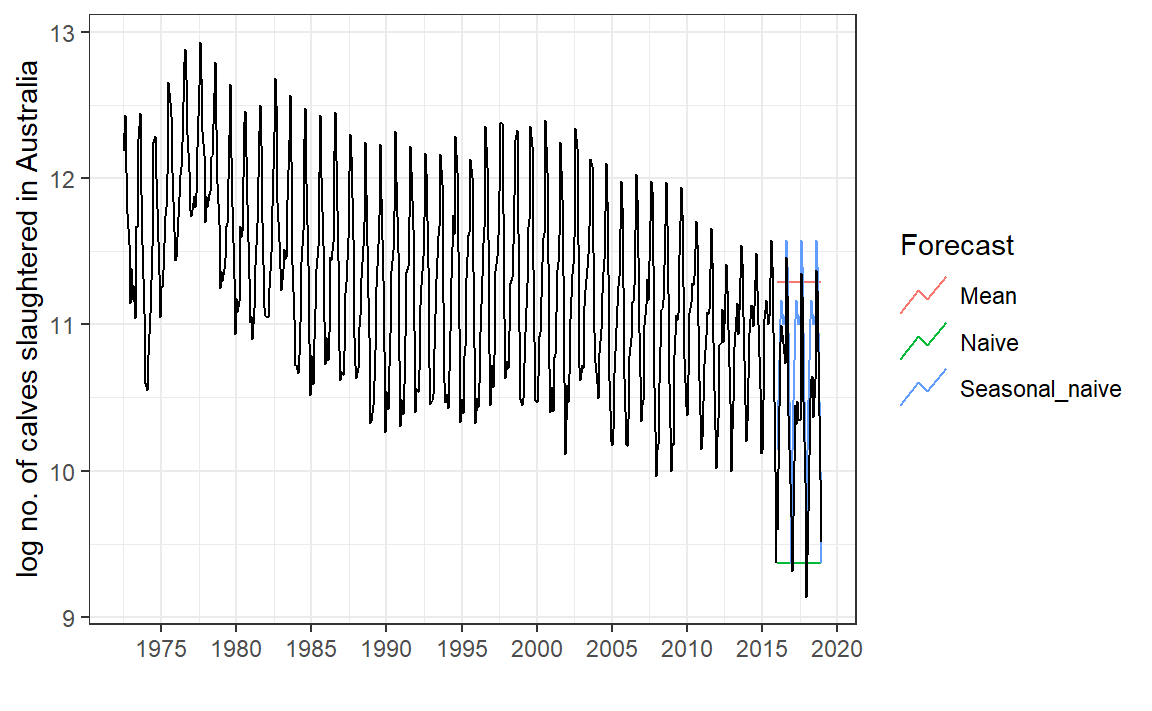
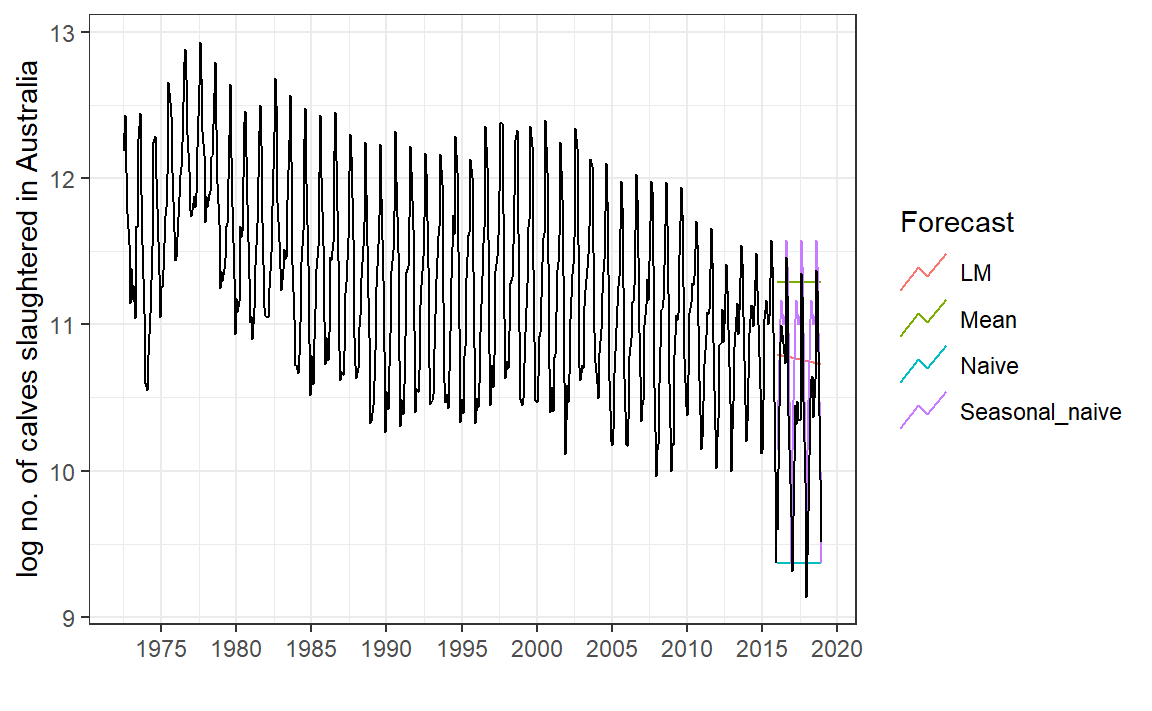
Now finishes TSA intro

Changed region(s): [[0.7812, 0.2785, 0.9688, 0.5879], [0.6875, 0.4332, 0.7188, 0.6188], [0.6875, 0.3404, 0.7188, 0.4023]]

diff --git a/u5_d01-timeseries/u5_d01-timeseries.html b/u5_d01-timeseries/u5_d01-timeseries.html
@@ -402,7 +402,7 @@
 <h3 id="giora-simchoni">Giora Simchoni</h3>
 <h4 id="gsimchonigmail.com-and-add-dsapps-in-subject"><code>gsimchoni@gmail.com</code> and add <code>#dsapps</code> in subject</h4>
 <h3 id="stat.-and-or-department-tau">Stat. and OR Department, TAU</h3>
-<h3 id="section-1">2023-04-06</h3>
+<h3 id="section-1">2023-04-07</h3>
 </section>
 <section class="slide level2">
 
@@ -459,11 +459,11 @@
 
 <h3 id="tsa-goals">TSA Goals</h3>
 <ul>
-<li>Forecasting <span style="font-size:16px">(prediction)</span></li>
-<li>Describing the TS dynamics</li>
-<li>Determination of input features contribution</li>
+<li>Forecasting <span style="font-size:18px">(prediction)</span></li>
+<li>Monitoring: outlier detection, alert systems</li>
+<li>Describing: the TS dynamics, input features contribution</li>
 <li>Planning: control schemes, intervention analyses, sensitivity analyses</li>
-<li>Multivariate TS: interrelationships, clustering</li>
+<li>Clustering: with multivariate TS</li>
 </ul>
 </section>
 <section id="detour-dates-in-r" class="slide level2 title-slide center">
@@ -520,7 +520,7 @@
 <span id="cb14-2"><a href="#cb14-2" aria-hidden="true" tabindex="-1"></a></span>
 <span id="cb14-3"><a href="#cb14-3" aria-hidden="true" tabindex="-1"></a>now</span></code><button title="Copy to Clipboard" class="code-copy-button"><i class="bi"></i></button></pre></div>
 <div class="cell-output cell-output-stdout">
-<pre><code>[1] "2023-04-06 21:37:49 IDT"</code></pre>
+<pre><code>[1] "2023-04-07 08:15:44 IDT"</code></pre>
 </div>
 <div class="sourceCode cell-code" id="cb16"><pre class="sourceCode r code-with-copy"><code class="sourceCode r"><span id="cb16-1"><a href="#cb16-1" aria-hidden="true" tabindex="-1"></a><span class="fu">class</span>(now)</span></code><button title="Copy to Clipboard" class="code-copy-button"><i class="bi"></i></button></pre></div>
 <div class="cell-output cell-output-stdout">
@@ -528,7 +528,7 @@
 </div>
 <div class="sourceCode cell-code" id="cb18"><pre class="sourceCode r code-with-copy"><code class="sourceCode r"><span id="cb18-1"><a href="#cb18-1" aria-hidden="true" tabindex="-1"></a><span class="fu">as.numeric</span>(now)</span></code><button title="Copy to Clipboard" class="code-copy-button"><i class="bi"></i></button></pre></div>
 <div class="cell-output cell-output-stdout">
-<pre><code>[1] 1680806270</code></pre>
+<pre><code>[1] 1680844544</code></pre>
 </div>
 </div>
 <p>The <code>POSIXlt</code> class will store time in a list with useful elements:</p>
@@ -536,7 +536,7 @@
 <div class="sourceCode cell-code" id="cb20"><pre class="sourceCode r code-with-copy"><code class="sourceCode r"><span id="cb20-1"><a href="#cb20-1" aria-hidden="true" tabindex="-1"></a>now <span class="ot">&lt;-</span> <span class="fu">as.POSIXlt</span>(now, <span class="at">tz =</span> <span class="st">"GMT"</span>)</span>
 <span id="cb20-2"><a href="#cb20-2" aria-hidden="true" tabindex="-1"></a>now<span class="sc">$</span>hour</span></code><button title="Copy to Clipboard" class="code-copy-button"><i class="bi"></i></button></pre></div>
 <div class="cell-output cell-output-stdout">
-<pre><code>[1] 18</code></pre>
+<pre><code>[1] 5</code></pre>
 </div>
 </div>
 </section>
@@ -547,7 +547,7 @@
 <div class="cell" data-fig.asp="0.618">
 <div class="sourceCode cell-code" id="cb22"><pre class="sourceCode r code-with-copy"><code class="sourceCode r"><span id="cb22-1"><a href="#cb22-1" aria-hidden="true" tabindex="-1"></a><span class="fu">today</span>()</span></code><button title="Copy to Clipboard" class="code-copy-button"><i class="bi"></i></button></pre></div>
 <div class="cell-output cell-output-stdout">
-<pre><code>[1] "2023-04-06"</code></pre>
+<pre><code>[1] "2023-04-07"</code></pre>
 </div>
 <div class="sourceCode cell-code" id="cb24"><pre class="sourceCode r code-with-copy"><code class="sourceCode r"><span id="cb24-1"><a href="#cb24-1" aria-hidden="true" tabindex="-1"></a><span class="fu">ymd</span>(<span class="st">"2023-01-31"</span>)</span></code><button title="Copy to Clipboard" class="code-copy-button"><i class="bi"></i></button></pre></div>
 <div class="cell-output cell-output-stdout">
@@ -573,7 +573,7 @@
 <div class="cell" data-fig.asp="0.618">
 <div class="sourceCode cell-code" id="cb32"><pre class="sourceCode r code-with-copy"><code class="sourceCode r"><span id="cb32-1"><a href="#cb32-1" aria-hidden="true" tabindex="-1"></a><span class="fu">as_datetime</span>(<span class="fu">today</span>())</span></code><button title="Copy to Clipboard" class="code-copy-button"><i class="bi"></i></button></pre></div>
 <div class="cell-output cell-output-stdout">
-<pre><code>[1] "2023-04-06 UTC"</code></pre>
+<pre><code>[1] "2023-04-07 UTC"</code></pre>
 </div>
 </div>
 </section>
@@ -604,19 +604,19 @@
 <div class="cell" data-fig.asp="0.618">
 <div class="sourceCode cell-code" id="cb42"><pre class="sourceCode r code-with-copy"><code class="sourceCode r"><span id="cb42-1"><a href="#cb42-1" aria-hidden="true" tabindex="-1"></a><span class="fu">today</span>() <span class="sc">-</span> <span class="fu">ymd</span>(<span class="st">"2020-01-01"</span>) <span class="co">#base R difftime object</span></span></code><button title="Copy to Clipboard" class="code-copy-button"><i class="bi"></i></button></pre></div>
 <div class="cell-output cell-output-stdout">
-<pre><code>Time difference of 1191 days</code></pre>
+<pre><code>Time difference of 1192 days</code></pre>
 </div>
 <div class="sourceCode cell-code" id="cb44"><pre class="sourceCode r code-with-copy"><code class="sourceCode r"><span id="cb44-1"><a href="#cb44-1" aria-hidden="true" tabindex="-1"></a><span class="fu">as.duration</span>(<span class="fu">today</span>() <span class="sc">-</span> <span class="fu">ymd</span>(<span class="st">"2020-01-01"</span>))</span></code><button title="Copy to Clipboard" class="code-copy-button"><i class="bi"></i></button></pre></div>
 <div class="cell-output cell-output-stdout">
-<pre><code>[1] "102902400s (~3.26 years)"</code></pre>
+<pre><code>[1] "102988800s (~3.26 years)"</code></pre>
 </div>
 <div class="sourceCode cell-code" id="cb46"><pre class="sourceCode r code-with-copy"><code class="sourceCode r"><span id="cb46-1"><a href="#cb46-1" aria-hidden="true" tabindex="-1"></a><span class="fu">today</span>() <span class="sc">-</span> <span class="fu">dyears</span>(<span class="dv">1</span>)</span></code><button title="Copy to Clipboard" class="code-copy-button"><i class="bi"></i></button></pre></div>
 <div class="cell-output cell-output-stdout">
-<pre><code>[1] "2022-04-05 18:00:00 UTC"</code></pre>
+<pre><code>[1] "2022-04-06 18:00:00 UTC"</code></pre>
 </div>
 <div class="sourceCode cell-code" id="cb48"><pre class="sourceCode r code-with-copy"><code class="sourceCode r"><span id="cb48-1"><a href="#cb48-1" aria-hidden="true" tabindex="-1"></a><span class="fu">today</span>() <span class="sc">+</span> <span class="fu">ddays</span>(<span class="dv">10</span>)</span></code><button title="Copy to Clipboard" class="code-copy-button"><i class="bi"></i></button></pre></div>
 <div class="cell-output cell-output-stdout">
-<pre><code>[1] "2023-04-16"</code></pre>
+<pre><code>[1] "2023-04-17"</code></pre>
 </div>
 </div>
 </section>
@@ -649,18 +649,18 @@
 <span id="cb50-6"><a href="#cb50-6" aria-hidden="true" tabindex="-1"></a>)</span></code><button title="Copy to Clipboard" class="code-copy-button"><i class="bi"></i></button></pre></div>
 <div class="cell-output cell-output-stdout">
 <pre><code># A tsibble: 10 x 2 [1D]
-   date          value
-   &lt;date&gt;        &lt;dbl&gt;
- 1 2017-01-01 -0.695  
- 2 2017-01-02  1.58   
- 3 2017-01-03  2.05   
- 4 2017-01-04  0.126  
- 5 2017-01-05  1.72   
- 6 2017-01-06  2.66   
- 7 2017-01-07  1.11   
- 8 2017-01-08 -0.00320
- 9 2017-01-09 -0.671  
-10 2017-01-10  1.85   </code></pre>
+   date        value
+   &lt;date&gt;      &lt;dbl&gt;
+ 1 2017-01-01 -0.821
+ 2 2017-01-02  0.838
+ 3 2017-01-03  0.796
+ 4 2017-01-04 -0.319
+ 5 2017-01-05 -1.58 
+ 6 2017-01-06 -0.818
+ 7 2017-01-07  0.500
+ 8 2017-01-08  1.24 
+ 9 2017-01-09 -0.199
+10 2017-01-10  1.18 </code></pre>
 </div>
 </div>
 <p>Here, as <code>date</code> is the only <strong><code>Date</code></strong> column, <code>tsibble</code> gets this.</p>
@@ -679,18 +679,18 @@
 <div class="cell-output cell-output-stdout">
 <pre><code># A tsibble: 30 x 3 [1Q]
 # Key:       group [3]
-       qtr group   value
-     &lt;qtr&gt; &lt;chr&gt;   &lt;dbl&gt;
- 1 2010 Q1 x      0.148 
- 2 2010 Q2 x      0.920 
- 3 2010 Q3 x      0.941 
- 4 2010 Q4 x      1.17  
- 5 2011 Q1 x      0.983 
- 6 2011 Q2 x      0.824 
- 7 2011 Q3 x      0.0897
- 8 2011 Q4 x     -1.16  
- 9 2012 Q1 x      0.754 
-10 2012 Q2 x     -3.02  
+       qtr group  value
+     &lt;qtr&gt; &lt;chr&gt;  &lt;dbl&gt;
+ 1 2010 Q1 x      1.08 
+ 2 2010 Q2 x     -0.588
+ 3 2010 Q3 x     -0.409
+ 4 2010 Q4 x     -1.71 
+ 5 2011 Q1 x     -0.563
+ 6 2011 Q2 x      1.09 
+ 7 2011 Q3 x     -1.73 
+ 8 2011 Q4 x     -0.662
+ 9 2012 Q1 x     -0.182
+10 2012 Q2 x     -0.585
 # … with 20 more rows</code></pre>
 </div>
 </div>
@@ -1121,9 +1121,12 @@ r_k = \frac{\sum_{t = k+1}^{n}(Y_t - \bar{Y})(Y_{t-k} - \bar{Y})}{\sum_{t = 1}^{
 </div>
 </div>
 </section>
+<section id="residuals" class="slide level2 title-slide center">
+<h2>Residuals</h2>
+</section>
 <section class="slide level2">
 
-<h3 id="residuals">Residuals</h3>
+<h3 id="residuals-1">Residuals</h3>
 <p>What do we like to see in residuals?</p>
 <ol type="1">
 <li>Uncorrelated</li>
@@ -1273,6 +1276,71 @@ r_k = \frac{\sum_{t = k+1}^{n}(Y_t - \bar{Y})(Y_{t-k} - \bar{Y})}{\sum_{t = 1}^{
 
 </div>
 <img data-src="u5_d01-timeseries_files/figure-revealjs/Calves-resid6-1.png" width="576" class="r-stretch"></section>
+<section class="slide level2">
+
+<h4 id="residuals-statistical-tests">Residuals Statistical Tests</h4>
+<p>Normality - Shapiro-Wilk Test:</p>
+<div class="cell" data-fig.asp="0.618">
+<div class="sourceCode cell-code" id="cb89"><pre class="sourceCode r code-with-copy"><code class="sourceCode r"><span id="cb89-1"><a href="#cb89-1" aria-hidden="true" tabindex="-1"></a><span class="fu">shapiro.test</span>(aus_calves_aug<span class="sc">$</span>st_resid)</span></code><button title="Copy to Clipboard" class="code-copy-button"><i class="bi"></i></button></pre></div>
+<div class="cell-output cell-output-stdout">
+<pre><code>
+    Shapiro-Wilk normality test
+
+data:  aus_calves_aug$st_resid
+W = 0.99429, p-value = 0.03469</code></pre>
+</div>
+</div>
+<p>TS independence - Runs Test:</p>
+<div class="cell" data-fig.asp="0.618">
+<div class="sourceCode cell-code" id="cb91"><pre class="sourceCode r code-with-copy"><code class="sourceCode r"><span id="cb91-1"><a href="#cb91-1" aria-hidden="true" tabindex="-1"></a>TSA<span class="sc">::</span><span class="fu">runs</span>(aus_calves_aug<span class="sc">$</span>st_resid)</span></code><button title="Copy to Clipboard" class="code-copy-button"><i class="bi"></i></button></pre></div>
+<div class="cell-output cell-output-stdout">
+<pre><code>$pvalue
+[1] 0.223
+
+$observed.runs
+[1] 265
+
+$expected.runs
+[1] 279.871
+
+$n1
+[1] 273
+
+$n2
+[1] 285
+
+$k
+[1] 0</code></pre>
+</div>
+</div>
+</section>
+<section class="slide level2">
+
+<p>ACF - Ljung-Box Test:</p>
+<p><span class="math display">\[
+Q^* = n(n+2)\sum_{k = 1}^l (n - k)^{-1}r^2_k \sim \chi^2_l
+\]</span></p>
+<div class="cell" data-fig.asp="0.618">
+<div class="sourceCode cell-code" id="cb93"><pre class="sourceCode r code-with-copy"><code class="sourceCode r"><span id="cb93-1"><a href="#cb93-1" aria-hidden="true" tabindex="-1"></a><span class="fu">Box.test</span>(aus_calves_aug<span class="sc">$</span>st_resid, <span class="at">lag =</span> <span class="dv">10</span>, <span class="at">type =</span> <span class="st">"Ljung"</span>)</span></code><button title="Copy to Clipboard" class="code-copy-button"><i class="bi"></i></button></pre></div>
+<div class="cell-output cell-output-stdout">
+<pre><code>
+    Box-Ljung test
+
+data:  aus_calves_aug$st_resid
+X-squared = 149.71, df = 10, p-value &lt; 2.2e-16</code></pre>
+</div>
+</div>
+<p>A bit more tidy with <code>fable</code>:</p>
+<div class="cell" data-fig.asp="0.618">
+<div class="sourceCode cell-code" id="cb95"><pre class="sourceCode r code-with-copy"><code class="sourceCode r"><span id="cb95-1"><a href="#cb95-1" aria-hidden="true" tabindex="-1"></a>aus_calves_aug <span class="sc">|&gt;</span> <span class="fu">features</span>(.innov, ljung_box, <span class="at">lag =</span> <span class="dv">10</span>)</span></code><button title="Copy to Clipboard" class="code-copy-button"><i class="bi"></i></button></pre></div>
+<div class="cell-output cell-output-stdout">
+<pre><code># A tibble: 1 × 3
+  .model         lb_stat lb_pvalue
+  &lt;chr&gt;            &lt;dbl&gt;     &lt;dbl&gt;
+1 STL(log_count)    150.         0</code></pre>
+</div>
+</div>
+</section>
 <section id="baseline-forecasts" class="slide level2 title-slide center">
 <h2>Baseline Forecasts</h2>
 </section>
@@ -1294,43 +1362,66 @@ r_k = \frac{\sum_{t = k+1}^{n}(Y_t - \bar{Y})(Y_{t-k} - \bar{Y})}{\sum_{t = 1}^{
 <section class="slide level2">
 
 <div class="cell" data-fig.asp="0.618">
-<div class="sourceCode cell-code" id="cb89"><pre class="sourceCode r code-with-copy"><code class="sourceCode r"><span id="cb89-1"><a href="#cb89-1" aria-hidden="true" tabindex="-1"></a><span class="co"># Set training data until 2016</span></span>
-<span id="cb89-2"><a href="#cb89-2" aria-hidden="true" tabindex="-1"></a>train <span class="ot">&lt;-</span> aus_calves <span class="sc">|&gt;</span></span>
-<span id="cb89-3"><a href="#cb89-3" aria-hidden="true" tabindex="-1"></a>  <span class="fu">filter</span>(<span class="fu">year</span>(Month) <span class="sc">&lt;</span> <span class="dv">2016</span>)</span>
-<span id="cb89-4"><a href="#cb89-4" aria-hidden="true" tabindex="-1"></a></span>
-<span id="cb89-5"><a href="#cb89-5" aria-hidden="true" tabindex="-1"></a><span class="co"># Fit the models</span></span>
-<span id="cb89-6"><a href="#cb89-6" aria-hidden="true" tabindex="-1"></a>models_fit <span class="ot">&lt;-</span> train <span class="sc">|&gt;</span></span>
-<span id="cb89-7"><a href="#cb89-7" aria-hidden="true" tabindex="-1"></a>  <span class="fu">model</span>(</span>
-<span id="cb89-8"><a href="#cb89-8" aria-hidden="true" tabindex="-1"></a>    <span class="at">Mean =</span> <span class="fu">MEAN</span>(log_count),</span>
-<span id="cb89-9"><a href="#cb89-9" aria-hidden="true" tabindex="-1"></a>    <span class="at">Naive =</span> <span class="fu">NAIVE</span>(log_count),</span>
-<span id="cb89-10"><a href="#cb89-10" aria-hidden="true" tabindex="-1"></a>    <span class="at">Seasonal_naive =</span> <span class="fu">SNAIVE</span>(log_count)</span>
-<span id="cb89-11"><a href="#cb89-11" aria-hidden="true" tabindex="-1"></a>  )</span>
-<span id="cb89-12"><a href="#cb89-12" aria-hidden="true" tabindex="-1"></a></span>
-<span id="cb89-13"><a href="#cb89-13" aria-hidden="true" tabindex="-1"></a><span class="co"># Generate forecasts for 3 years</span></span>
-<span id="cb89-14"><a href="#cb89-14" aria-hidden="true" tabindex="-1"></a>models_fit <span class="ot">&lt;-</span> models_fit <span class="sc">|&gt;</span> <span class="fu">forecast</span>(<span class="at">h =</span> <span class="dv">36</span>)</span>
-<span id="cb89-15"><a href="#cb89-15" aria-hidden="true" tabindex="-1"></a></span>
-<span id="cb89-16"><a href="#cb89-16" aria-hidden="true" tabindex="-1"></a><span class="co"># Plot forecasts against actual values</span></span>
-<span id="cb89-17"><a href="#cb89-17" aria-hidden="true" tabindex="-1"></a>models_fit <span class="sc">|&gt;</span></span>
-<span id="cb89-18"><a href="#cb89-18" aria-hidden="true" tabindex="-1"></a>  <span class="fu">autoplot</span>(train, <span class="at">level =</span> <span class="cn">NULL</span>) <span class="sc">+</span></span>
-<span id="cb89-19"><a href="#cb89-19" aria-hidden="true" tabindex="-1"></a>  <span class="fu">autolayer</span>(</span>
-<span id="cb89-20"><a href="#cb89-20" aria-hidden="true" tabindex="-1"></a>    <span class="fu">filter_index</span>(aus_calves, <span class="st">"2016-01"</span> <span class="sc">~</span> .),</span>
-<span id="cb89-21"><a href="#cb89-21" aria-hidden="true" tabindex="-1"></a>    log_count,</span>
-<span id="cb89-22"><a href="#cb89-22" aria-hidden="true" tabindex="-1"></a>    <span class="at">colour =</span> <span class="st">"black"</span>) <span class="sc">+</span></span>
-<span id="cb89-23"><a href="#cb89-23" aria-hidden="true" tabindex="-1"></a>  <span class="fu">guides</span>(<span class="at">colour =</span> <span class="fu">guide_legend</span>(<span class="at">title =</span> <span class="st">"Forecast"</span>)) <span class="sc">+</span></span>
-<span id="cb89-24"><a href="#cb89-24" aria-hidden="true" tabindex="-1"></a>  <span class="fu">labs</span>(<span class="at">x =</span> <span class="st">""</span>, <span class="at">y =</span> <span class="st">"log no. of calves slaughtered in Australia"</span>) <span class="sc">+</span></span>
-<span id="cb89-25"><a href="#cb89-25" aria-hidden="true" tabindex="-1"></a>  <span class="fu">scale_x_yearmonth</span>(<span class="at">date_breaks =</span> <span class="st">"5 year"</span>, <span class="at">date_labels =</span> <span class="st">"%Y"</span>) <span class="sc">+</span></span>
-<span id="cb89-26"><a href="#cb89-26" aria-hidden="true" tabindex="-1"></a>  <span class="fu">theme_bw</span>()</span></code><button title="Copy to Clipboard" class="code-copy-button"><i class="bi"></i></button></pre></div>
+<div class="sourceCode cell-code" id="cb97"><pre class="sourceCode r code-with-copy"><code class="sourceCode r"><span id="cb97-1"><a href="#cb97-1" aria-hidden="true" tabindex="-1"></a><span class="co"># Set training data until 2016</span></span>
+<span id="cb97-2"><a href="#cb97-2" aria-hidden="true" tabindex="-1"></a>calves_tr <span class="ot">&lt;-</span> aus_calves <span class="sc">|&gt;</span></span>
+<span id="cb97-3"><a href="#cb97-3" aria-hidden="true" tabindex="-1"></a>  <span class="fu">filter</span>(<span class="fu">year</span>(Month) <span class="sc">&lt;</span> <span class="dv">2016</span>)</span>
+<span id="cb97-4"><a href="#cb97-4" aria-hidden="true" tabindex="-1"></a>calves_te <span class="ot">&lt;-</span> aus_calves <span class="sc">|&gt;</span></span>
+<span id="cb97-5"><a href="#cb97-5" aria-hidden="true" tabindex="-1"></a>  <span class="fu">filter</span>(<span class="fu">year</span>(Month) <span class="sc">&gt;=</span> <span class="dv">2016</span>)</span>
+<span id="cb97-6"><a href="#cb97-6" aria-hidden="true" tabindex="-1"></a></span>
+<span id="cb97-7"><a href="#cb97-7" aria-hidden="true" tabindex="-1"></a><span class="co"># Fit the models</span></span>
+<span id="cb97-8"><a href="#cb97-8" aria-hidden="true" tabindex="-1"></a>models_fit <span class="ot">&lt;-</span> calves_tr <span class="sc">|&gt;</span></span>
+<span id="cb97-9"><a href="#cb97-9" aria-hidden="true" tabindex="-1"></a>  <span class="fu">model</span>(</span>
+<span id="cb97-10"><a href="#cb97-10" aria-hidden="true" tabindex="-1"></a>    <span class="at">Mean =</span> fable<span class="sc">::</span><span class="fu">MEAN</span>(log_count),</span>
+<span id="cb97-11"><a href="#cb97-11" aria-hidden="true" tabindex="-1"></a>    <span class="at">Naive =</span> fable<span class="sc">::</span><span class="fu">NAIVE</span>(log_count),</span>
+<span id="cb97-12"><a href="#cb97-12" aria-hidden="true" tabindex="-1"></a>    <span class="at">Seasonal_naive =</span> fable<span class="sc">::</span><span class="fu">SNAIVE</span>(log_count),</span>
+<span id="cb97-13"><a href="#cb97-13" aria-hidden="true" tabindex="-1"></a>    <span class="at">LM =</span> fable<span class="sc">::</span><span class="fu">TSLM</span>(log_count <span class="sc">~</span> <span class="fu">trend</span>())</span>
+<span id="cb97-14"><a href="#cb97-14" aria-hidden="true" tabindex="-1"></a>  )</span>
+<span id="cb97-15"><a href="#cb97-15" aria-hidden="true" tabindex="-1"></a></span>
+<span id="cb97-16"><a href="#cb97-16" aria-hidden="true" tabindex="-1"></a><span class="co"># Generate forecasts for 3 years</span></span>
+<span id="cb97-17"><a href="#cb97-17" aria-hidden="true" tabindex="-1"></a>models_fit <span class="ot">&lt;-</span> models_fit <span class="sc">|&gt;</span> <span class="fu">forecast</span>(calves_te)</span>
+<span id="cb97-18"><a href="#cb97-18" aria-hidden="true" tabindex="-1"></a></span>
+<span id="cb97-19"><a href="#cb97-19" aria-hidden="true" tabindex="-1"></a><span class="co"># Can also do forecast(h = 36)</span></span></code><button title="Copy to Clipboard" class="code-copy-button"><i class="bi"></i></button></pre></div>
 </div>
 </section>
 <section class="slide level2">
 
 <div class="cell" data-fig.asp="0.618">
-<div class="cell-output-display">
-<p><img data-src="u5_d01-timeseries_files/figure-revealjs/Calves-Forecasts-1.png" style="width:100.0%"></p>
+<div class="sourceCode cell-code" id="cb98"><pre class="sourceCode r code-with-copy"><code class="sourceCode r"><span id="cb98-1"><a href="#cb98-1" aria-hidden="true" tabindex="-1"></a><span class="co"># Plot forecasts against actual values</span></span>
+<span id="cb98-2"><a href="#cb98-2" aria-hidden="true" tabindex="-1"></a>models_fit <span class="sc">|&gt;</span></span>
+<span id="cb98-3"><a href="#cb98-3" aria-hidden="true" tabindex="-1"></a>  <span class="fu">autoplot</span>(calves_tr, <span class="at">level =</span> <span class="cn">NULL</span>) <span class="sc">+</span></span>
+<span id="cb98-4"><a href="#cb98-4" aria-hidden="true" tabindex="-1"></a>  <span class="fu">autolayer</span>(</span>
+<span id="cb98-5"><a href="#cb98-5" aria-hidden="true" tabindex="-1"></a>    <span class="fu">filter_index</span>(aus_calves, <span class="st">"2016-01"</span> <span class="sc">~</span> .),</span>
+<span id="cb98-6"><a href="#cb98-6" aria-hidden="true" tabindex="-1"></a>    log_count,</span>
+<span id="cb98-7"><a href="#cb98-7" aria-hidden="true" tabindex="-1"></a>    <span class="at">colour =</span> <span class="st">"black"</span>) <span class="sc">+</span></span>
+<span id="cb98-8"><a href="#cb98-8" aria-hidden="true" tabindex="-1"></a>  <span class="fu">guides</span>(<span class="at">colour =</span> <span class="fu">guide_legend</span>(<span class="at">title =</span> <span class="st">"Forecast"</span>)) <span class="sc">+</span></span>
+<span id="cb98-9"><a href="#cb98-9" aria-hidden="true" tabindex="-1"></a>  <span class="fu">labs</span>(<span class="at">x =</span> <span class="st">""</span>, <span class="at">y =</span> <span class="st">"log no. of calves slaughtered in Australia"</span>) <span class="sc">+</span></span>
+<span id="cb98-10"><a href="#cb98-10" aria-hidden="true" tabindex="-1"></a>  <span class="fu">scale_x_yearmonth</span>(<span class="at">date_breaks =</span> <span class="st">"5 year"</span>, <span class="at">date_labels =</span> <span class="st">"%Y"</span>) <span class="sc">+</span></span>
+<span id="cb98-11"><a href="#cb98-11" aria-hidden="true" tabindex="-1"></a>  <span class="fu">theme_bw</span>()</span></code><button title="Copy to Clipboard" class="code-copy-button"><i class="bi"></i></button></pre></div>
+
+</div>
+<img data-src="u5_d01-timeseries_files/figure-revealjs/Calves-Forecasts-1.png" width="576" class="r-stretch"></section>
+<section class="slide level2">
+
+<h4 id="evaluating-forecast-point-accuracy">Evaluating forecast point accuracy</h4>
+<p>E.g. RMSE, MAE:</p>
+<div class="cell" data-fig.asp="0.618">
+<div class="sourceCode cell-code" id="cb99"><pre class="sourceCode r code-with-copy"><code class="sourceCode r"><span id="cb99-1"><a href="#cb99-1" aria-hidden="true" tabindex="-1"></a>models_fit <span class="sc">%&gt;%</span></span>
+<span id="cb99-2"><a href="#cb99-2" aria-hidden="true" tabindex="-1"></a>  <span class="fu">accuracy</span>(</span>
+<span id="cb99-3"><a href="#cb99-3" aria-hidden="true" tabindex="-1"></a>    <span class="at">data =</span> calves_te,</span>
+<span id="cb99-4"><a href="#cb99-4" aria-hidden="true" tabindex="-1"></a>    <span class="at">measures =</span> <span class="fu">list</span>(<span class="st">"RMSE"</span> <span class="ot">=</span> RMSE, <span class="st">"MAE"</span> <span class="ot">=</span> MAE)</span>
+<span id="cb99-5"><a href="#cb99-5" aria-hidden="true" tabindex="-1"></a>  )</span></code><button title="Copy to Clipboard" class="code-copy-button"><i class="bi"></i></button></pre></div>
+<div class="cell-output cell-output-stdout">
+<pre><code># A tibble: 4 × 4
+  .model         .type  RMSE   MAE
+  &lt;chr&gt;          &lt;chr&gt; &lt;dbl&gt; &lt;dbl&gt;
+1 LM             Test  0.718 0.575
+2 Mean           Test  1.08  0.904
+3 Naive          Test  1.21  1.05 
+4 Seasonal_naive Test  0.465 0.393</code></pre>
 </div>
 </div>
-<p><img src="../DSApps_logo_white.jpg" class="slide-logo"></p>
-<div class="footer footer-default">
+
+<img src="../DSApps_logo_white.jpg" class="slide-logo r-stretch"><div class="footer footer-default">
 <p><a href="https://dsapps-2023.github.io/Class_Slides/" target="_blank">Applications of Data Science</a></p>
 </div>
 </section>
